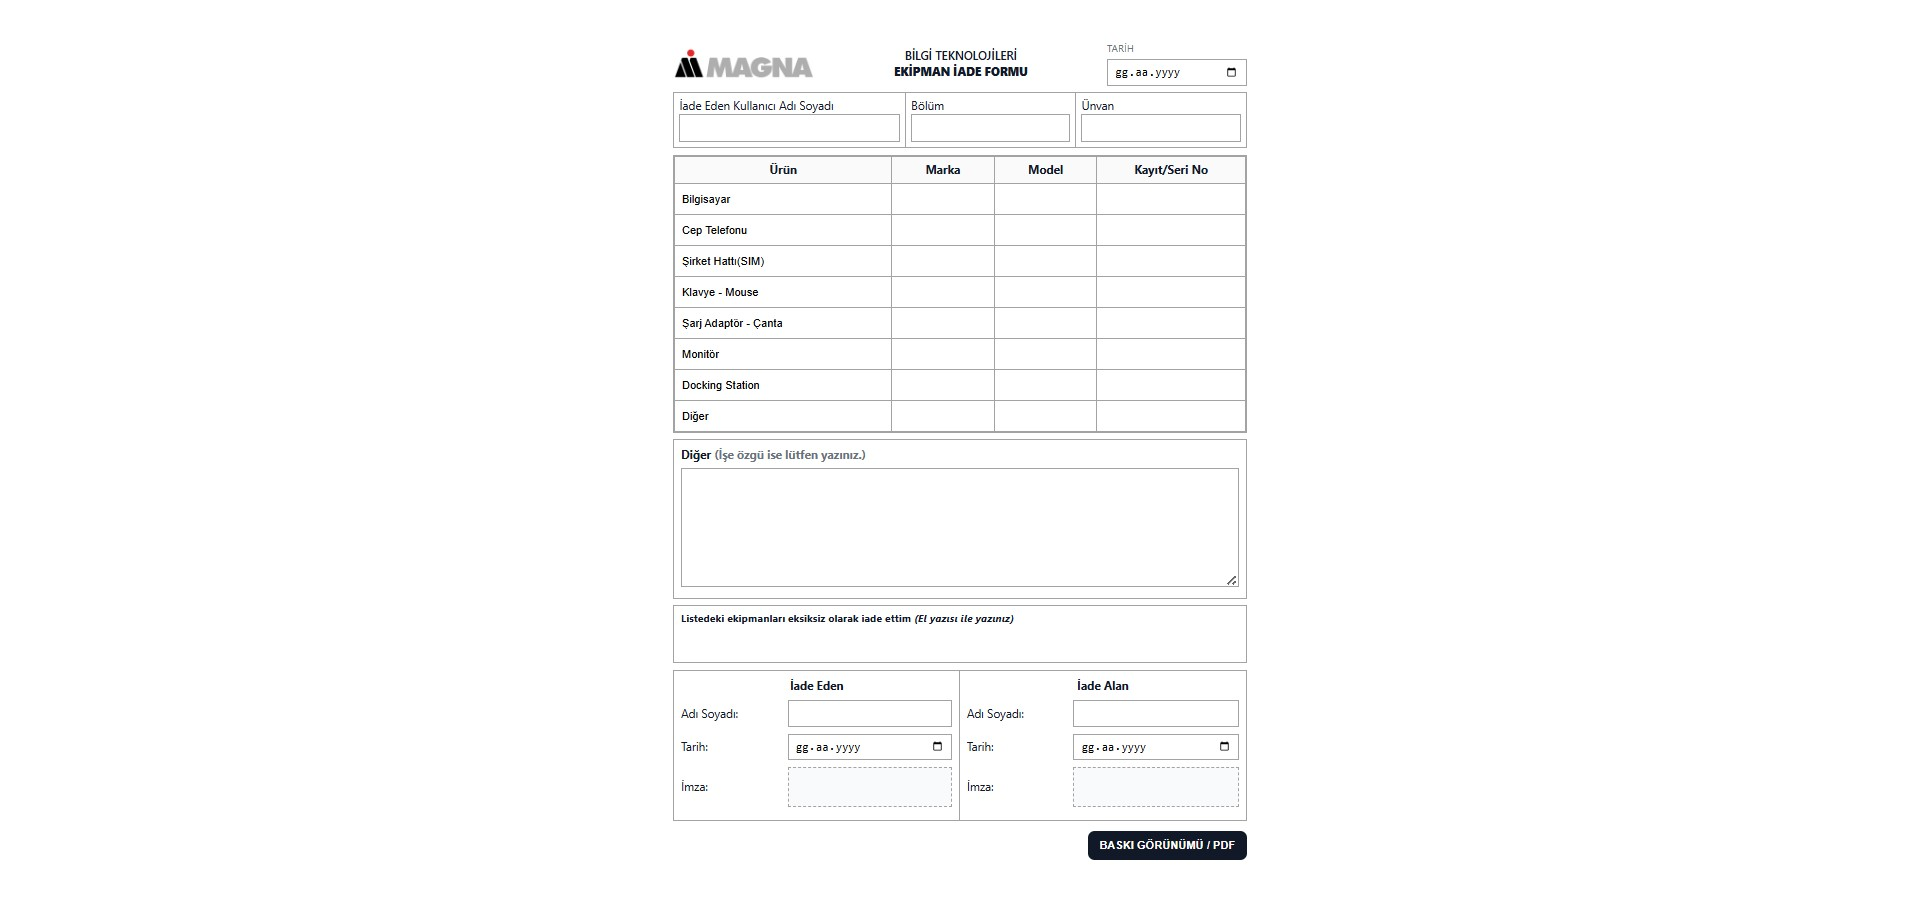
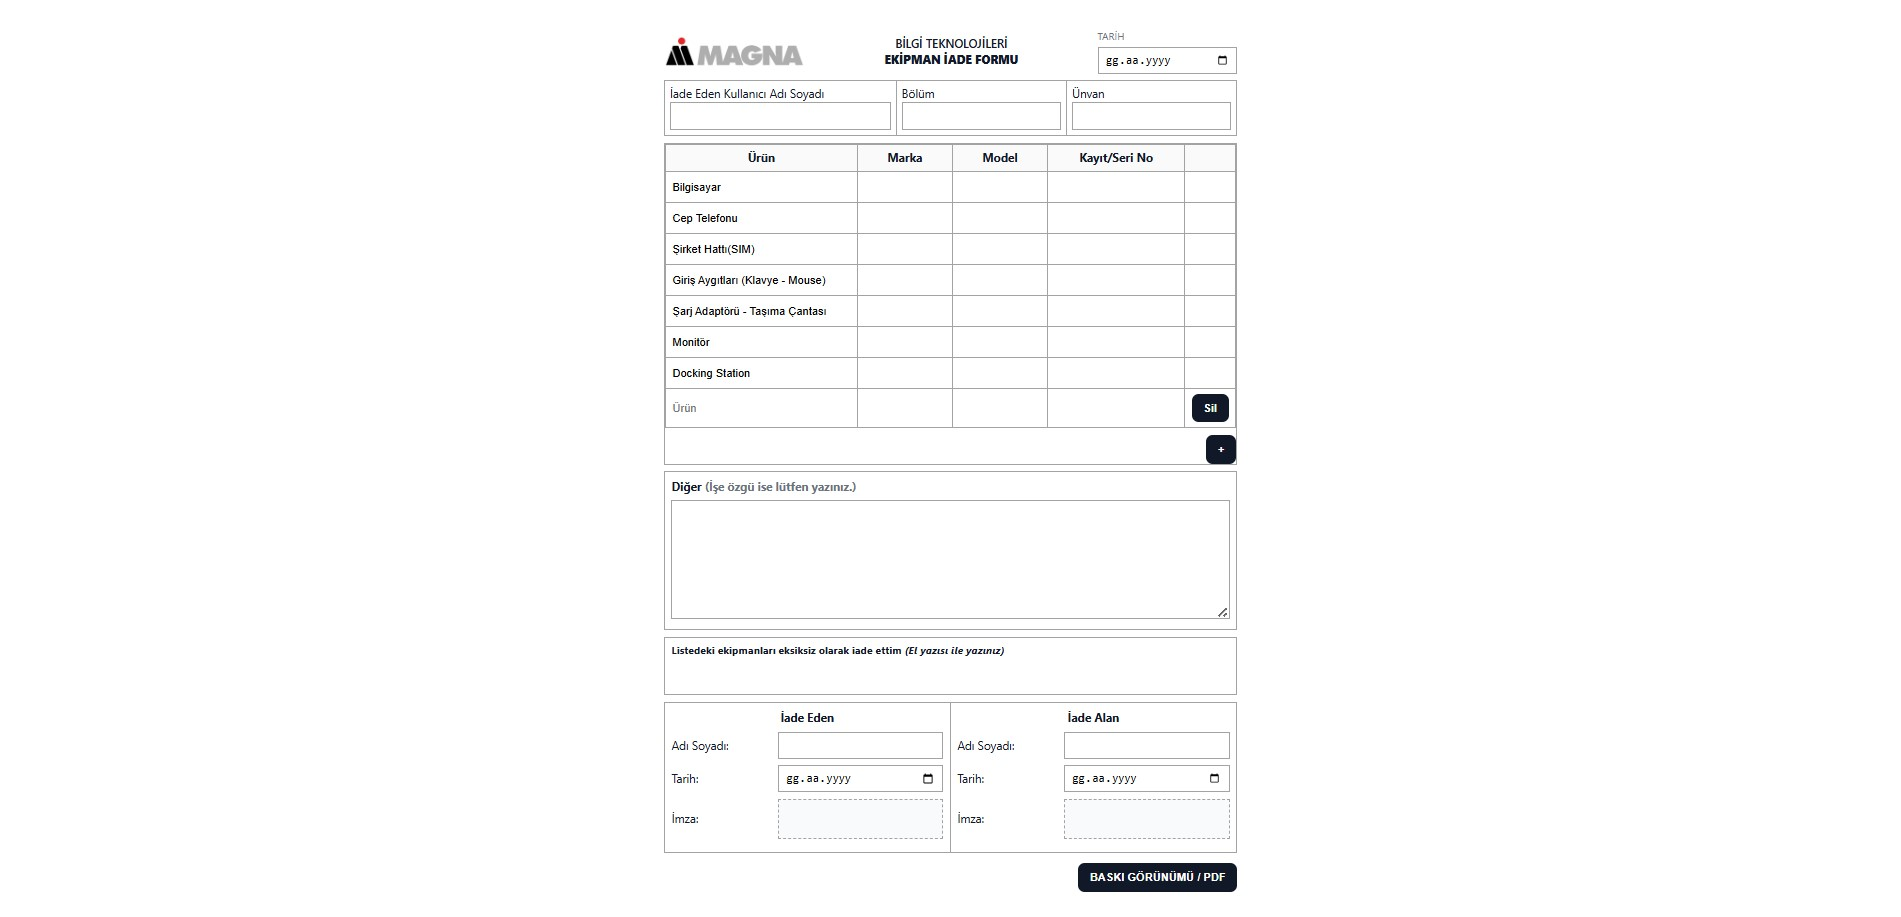
add other device and change screenshots

diff --git a/templates/form.html b/templates/form.html
@@ -54,6 +54,7 @@
               <th class="w-marka">Marka</th>
               <th class="w-model">Model</th>
               <th class="w-kayit">Kayıt/Seri No</th>
+              <th style="width:70px" class="no-print"></th>
             </tr>
           </thead>
           <tbody>
@@ -63,10 +64,15 @@
               <td><input name="marka_{{ loop.index0 }}"></td>
               <td><input name="model_{{ loop.index0 }}"></td>
               <td><input name="kayit_{{ loop.index0 }}"></td>
+              <td class="no-print"></td>
             </tr>
           {% endfor %}
           </tbody>
+          <tbody id="customRows"></tbody>
         </table>
+         <div style="margin-top:8px; text-align:right" class="no-print">
+            <button type="button" id="addRowBtn" class="secondary">+</button>
+         </div>
       </section>
 
       <section class="diger bordered">
@@ -85,13 +91,13 @@
       </section>
 
       {% if mode == "teslim" %}
-      <div class="orientation">
-        <label>
-          <input type="checkbox" name="oryantasyon" value="evet">
-          Oryantasyon aldım
-        </label>
-      </div>
+      <section class="handwrite bordered" style="margin-top:8px;">
+        <div class="handwrite-note">
+          Oryantasyon eğitimi aldım <em>(El yazısı ile yazınız)</em>
+        </div>
+      </section>
       {% endif %}
+
 
       <section class="sign bordered">
         <div class="sign-col">
@@ -131,6 +137,39 @@
       el.addEventListener('focus', openPicker);
       el.addEventListener('mousedown', openPicker);
     });
+
+    // --- Dinamik satır ekleme/silme ---
+  const customRows = document.getElementById('customRows');
+  const addBtn = document.getElementById('addRowBtn');
+
+  addBtn?.addEventListener('click', () => {
+    const tr = document.createElement('tr');
+    tr.innerHTML = `
+      <td><input name="urun_custom[]" placeholder="Ürün"></td>
+      <td><input name="marka_custom[]"></td>
+      <td><input name="model_custom[]"></td>
+      <td><input name="kayit_custom[]"></td>
+      <td class="no-print"><button type="button" class="row-del">Sil</button></td>
+    `;
+    customRows.appendChild(tr);
+  });
+
+  customRows.addEventListener('click', (e) => {
+    if (e.target.classList.contains('row-del')) {
+      e.target.closest('tr')?.remove();
+    }
+  });
+
+  // --- Tarih sadece picker ---
+  document.querySelectorAll('.date-only').forEach(el => {
+    el.addEventListener('keydown', e => e.preventDefault());
+    el.addEventListener('paste',  e => e.preventDefault());
+    el.addEventListener('drop',   e => e.preventDefault());
+    const openPicker = () => { if (el.showPicker) el.showPicker(); };
+    el.addEventListener('focus', openPicker);
+    el.addEventListener('mousedown', openPicker);
+  });
+  
   </script>
 </body>
 </html>

diff --git a/templates/pdf.html b/templates/pdf.html
@@ -69,12 +69,13 @@
     </section>
 
     {% if mode == "teslim" %}
-    <div class="orientation">
-      <label>
-        <input type="checkbox" disabled {% if oryantasyon %}checked{% endif %}>Oryantasyon aldım
-      </label>
-    </div>
+    <section class="handwrite bordered" style="margin-top:8px;">
+      <div class="handwrite-note">
+        Oryantasyon eğitimi aldım <em>(El yazısı ile yazınız)</em>
+      </div>
+    </section>
     {% endif %}
+
 
     <section class="sign bordered">
       <div class="sign-col">

diff --git a/app.py b/app.py
@@ -7,11 +7,10 @@ URUNLER = [
     "Bilgisayar",
     "Cep Telefonu",
     "Şirket Hattı(SIM)",
-    "Klavye - Mouse",
-    "Şarj Adaptör - Çanta",
+    "Giriş Aygıtları (Klavye - Mouse)",
+    "Şarj Adaptörü - Taşıma Çantası",
     "Monitör",
     "Docking Station",
-    "Diğer",
 ]
 
 def mode_title(mode: str) -> str:
@@ -71,6 +70,22 @@ def preview():
             "kayit": (f.get(f"kayit_{i}") or "").strip(),
         })
 
+    urun_c  = f.getlist("urun_custom[]")
+    marka_c = f.getlist("marka_custom[]")
+    model_c = f.getlist("model_custom[]")
+    kayit_c = f.getlist("kayit_custom[]")
+
+    for u, m, mo, k in zip(urun_c, marka_c, model_c, kayit_c):
+        # tamamen boş satırları at
+        if not (u or m or mo or k):
+            continue
+        rows.append({
+            "urun": (u or "").strip(),
+            "marka": (m or "").strip(),
+            "model": (mo or "").strip(),
+            "kayit": (k or "").strip(),
+        })
+
     ctx = {
         "mode": mode,
         "mode_title": mode_title(mode),
@@ -100,4 +115,4 @@ def preview():
     return render_template("pdf.html", **ctx)
 
 if __name__ == "__main__":
-    app.run(debug=True)
+    app.run(debug=True, port=5002)
